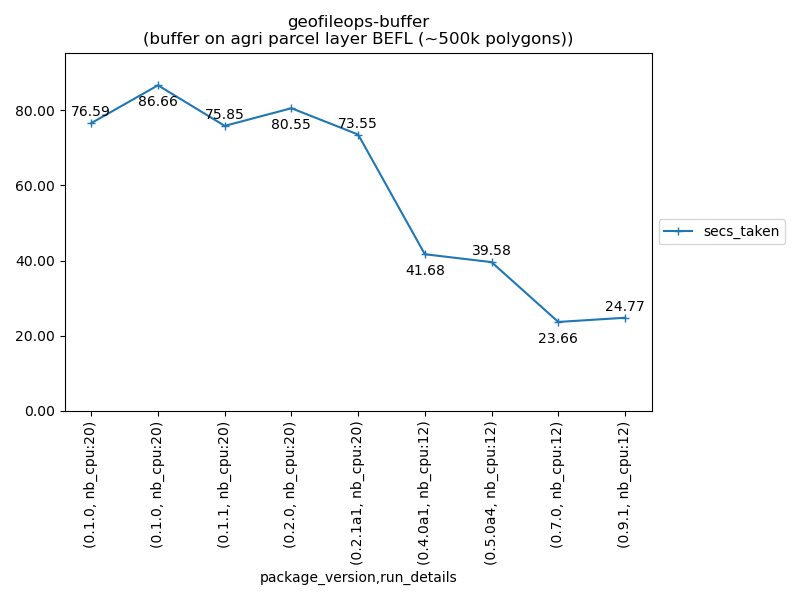
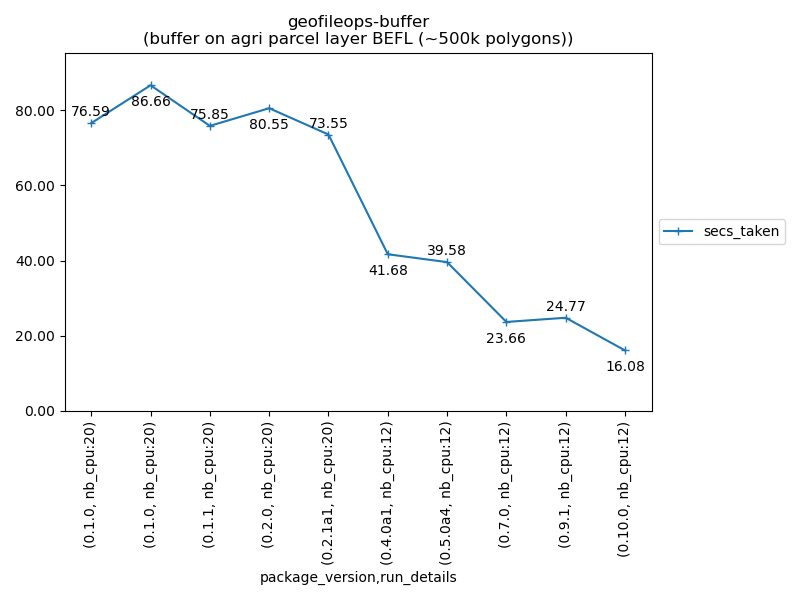
ENH: add benchmark results for geofileops 0.10.0

diff --git a/benchmarks_vector_ops/benchmarks_geopandas.py b/benchmarks_vector_ops/benchmarks_geopandas.py
@@ -215,7 +215,7 @@ def intersection(tmp_dir: Path) -> RunResult:
     return result
 
 
-def symdif_complexpolys_agri(tmp_dir: Path) -> RunResult:
+def _symdif_complexpolys_agri(tmp_dir: Path) -> RunResult:
     """Symmetric difference between very complex polygons and standard polygons.
 
     The complex polygons are created as such:

diff --git a/run_benchmarks_vector_ops.py b/run_benchmarks_vector_ops.py
@@ -12,7 +12,7 @@ def main():
             # modules=["benchmarks_geopandas"],
             # modules=["benchmarks_dask_geopandas"],
             # functions=["buffer"],
-            functions=["symdif_complexpolys_agri"],
+            # functions=["symdif_complexpolys_agri"],
         )
         return
 
